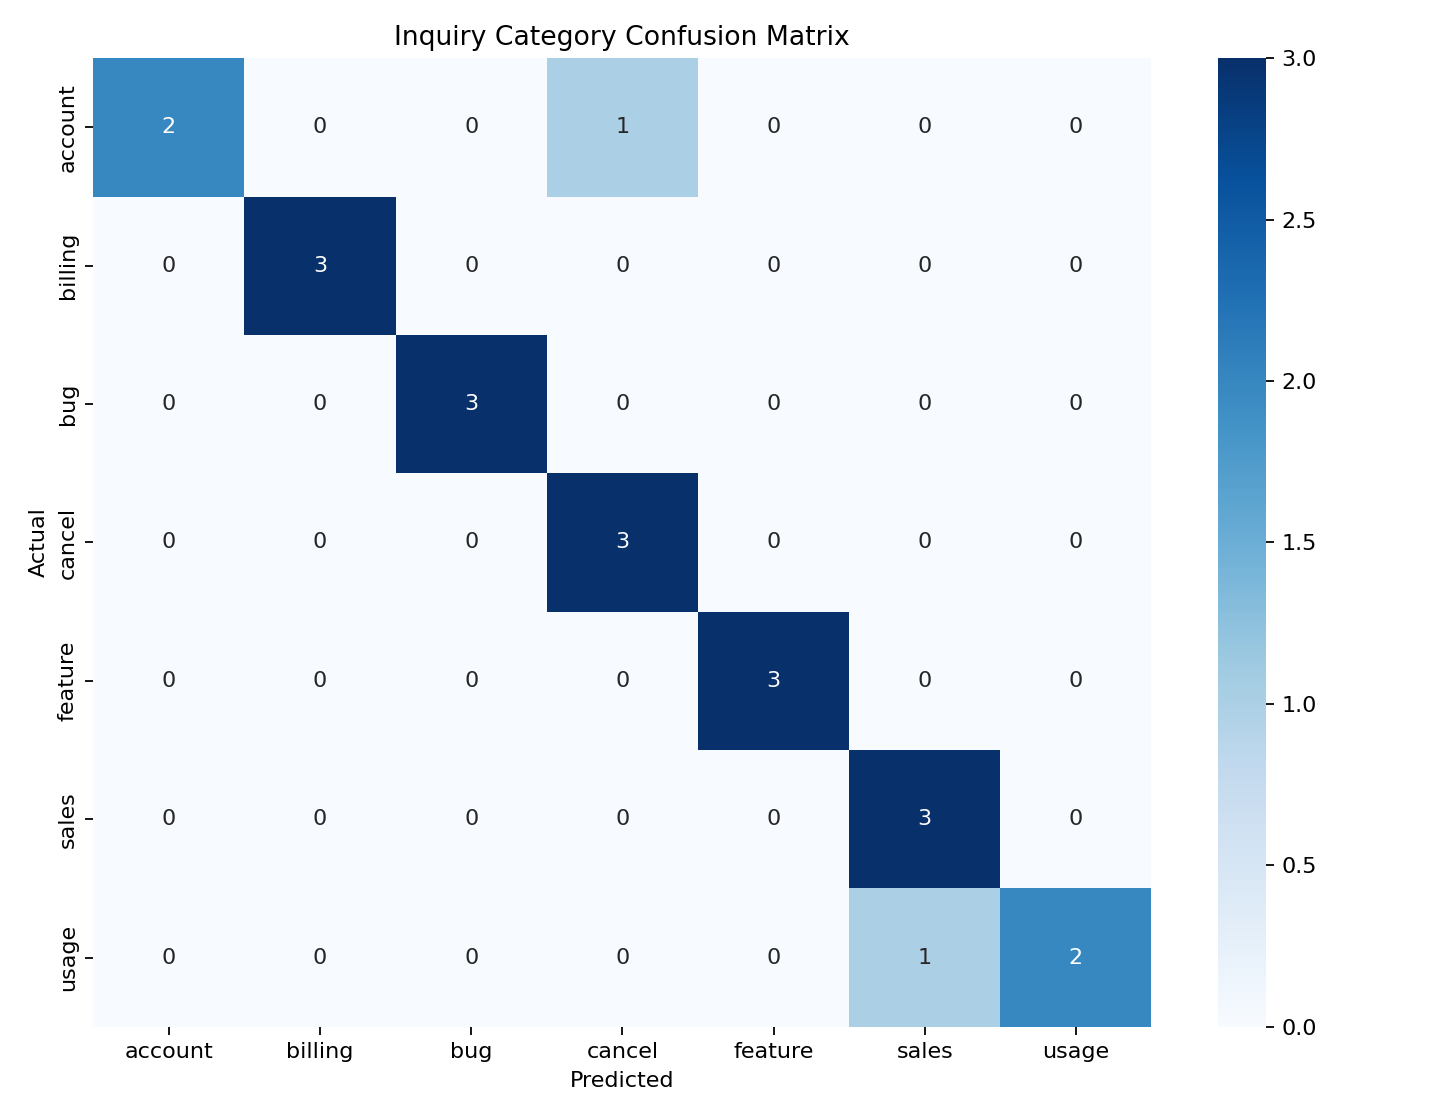
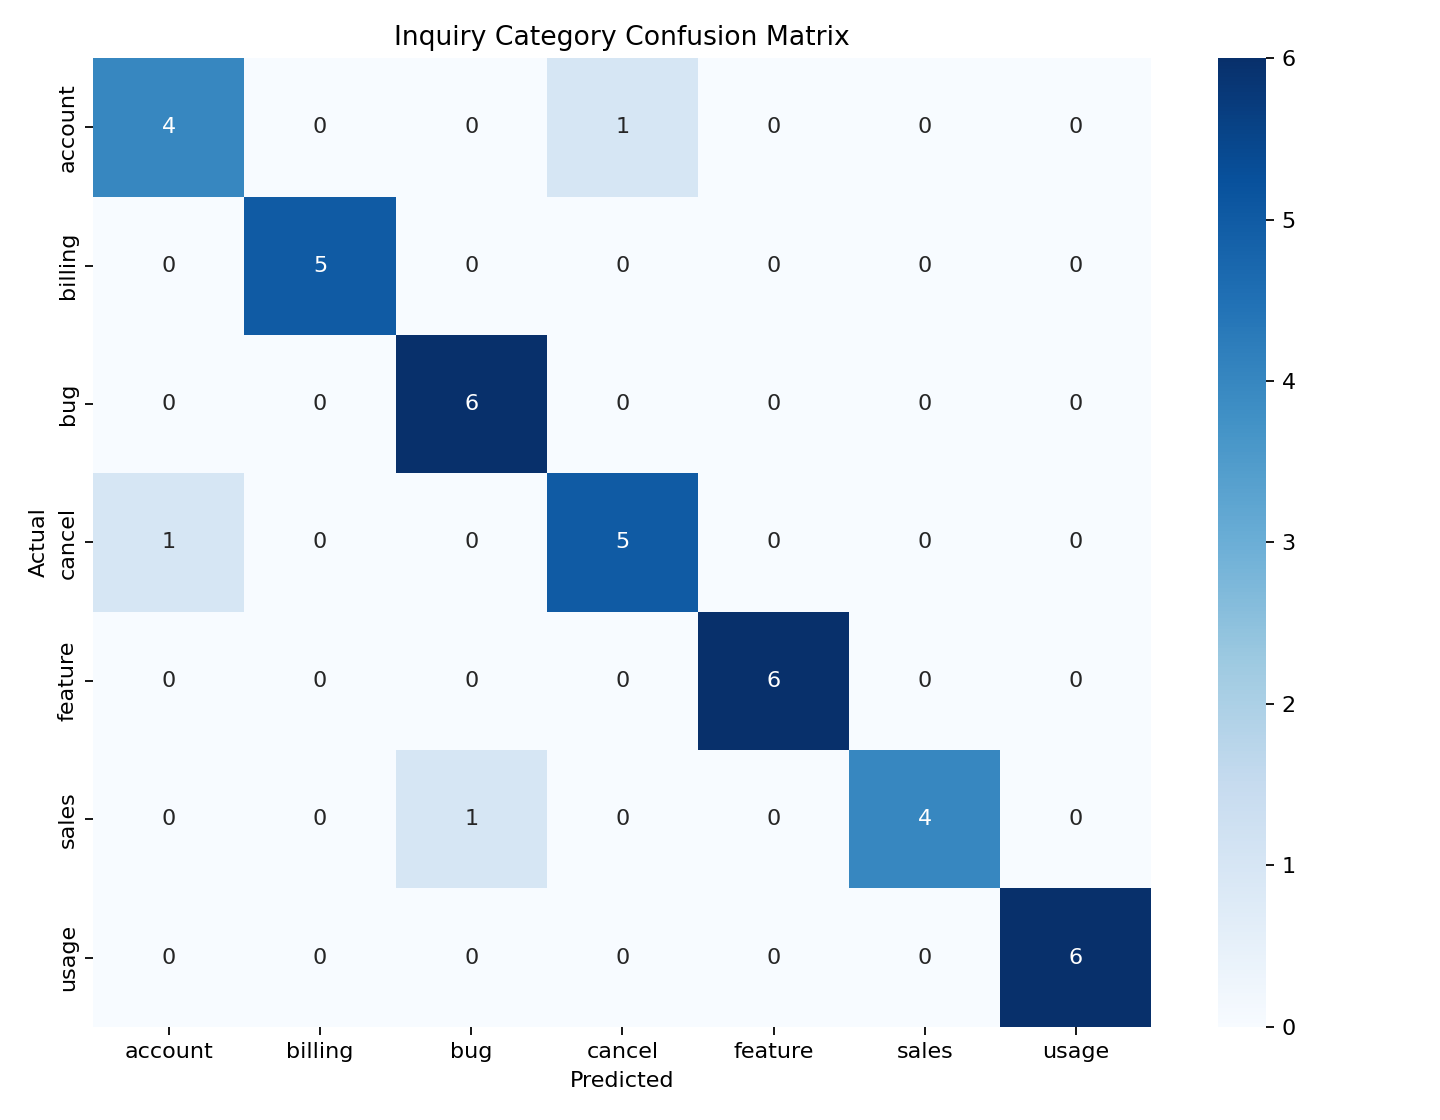
Add English and Chinese inquiry examples

diff --git a/src/model_features.py b/src/model_features.py
@@ -16,6 +16,22 @@ CATEGORY_KEYWORDS = {
         "招待",
         "ユーザー",
         "二段階",
+        "login",
+        "password",
+        "authentication",
+        "account",
+        "email",
+        "invite",
+        "user",
+        "two-factor",
+        "登录",
+        "密码",
+        "认证",
+        "账户",
+        "邮箱",
+        "邀请",
+        "用户",
+        "双重验证",
     ],
     "billing": [
         "請求",
@@ -27,6 +43,22 @@ CATEGORY_KEYWORDS = {
         "振込",
         "契約",
         "金額",
+        "invoice",
+        "billing",
+        "payment",
+        "credit card",
+        "receipt",
+        "price",
+        "plan",
+        "charge",
+        "发票",
+        "账单",
+        "付款",
+        "信用卡",
+        "收据",
+        "费用",
+        "套餐",
+        "扣款",
     ],
     "bug": [
         "エラー",
@@ -37,6 +69,22 @@ CATEGORY_KEYWORDS = {
         "止まります",
         "真っ白",
         "タイムアウト",
+        "error",
+        "bug",
+        "crash",
+        "failed",
+        "not working",
+        "blank",
+        "timeout",
+        "cannot",
+        "错误",
+        "故障",
+        "崩溃",
+        "失败",
+        "无法",
+        "空白",
+        "超时",
+        "不能",
     ],
     "cancel": [
         "解約",
@@ -47,6 +95,22 @@ CATEGORY_KEYWORDS = {
         "終了",
         "無料プラン",
         "更新前",
+        "cancel",
+        "cancellation",
+        "unsubscribe",
+        "delete account",
+        "terminate",
+        "stop service",
+        "downgrade",
+        "renewal",
+        "取消",
+        "退订",
+        "注销",
+        "删除账户",
+        "终止",
+        "停止服务",
+        "降级",
+        "续费",
     ],
     "feature": [
         "追加",
@@ -57,6 +121,22 @@ CATEGORY_KEYWORDS = {
         "一括",
         "並べ替え",
         "下書き",
+        "feature",
+        "request",
+        "add",
+        "integration",
+        "bulk",
+        "customize",
+        "export",
+        "automation",
+        "功能",
+        "需求",
+        "添加",
+        "集成",
+        "批量",
+        "自定义",
+        "导出",
+        "自动化",
     ],
     "sales": [
         "導入",
@@ -68,6 +148,22 @@ CATEGORY_KEYWORDS = {
         "相談",
         "契約前",
         "他社",
+        "demo",
+        "trial",
+        "quote",
+        "sales",
+        "enterprise",
+        "consult",
+        "before purchase",
+        "case study",
+        "演示",
+        "试用",
+        "报价",
+        "销售",
+        "企业",
+        "咨询",
+        "购买前",
+        "案例",
     ],
     "usage": [
         "方法",
@@ -79,6 +175,22 @@ CATEGORY_KEYWORDS = {
         "確認したい",
         "操作",
         "インポート",
+        "how to",
+        "procedure",
+        "setting",
+        "where",
+        "guide",
+        "use",
+        "import",
+        "permission",
+        "如何",
+        "步骤",
+        "设置",
+        "在哪里",
+        "指南",
+        "使用",
+        "导入",
+        "权限",
     ],
 }
 
@@ -96,10 +208,10 @@ class KeywordFeatureExtractor(BaseEstimator, TransformerMixin):
     def transform(self, X: Iterable[str]) -> sparse.csr_matrix:
         rows: list[list[float]] = []
         for text in X:
-            text_value = str(text)
+            text_value = str(text).lower()
             features = []
             for category in self.categories_:
                 keywords = self.keyword_map[category]
-                features.append(sum(1 for keyword in keywords if keyword in text_value))
+                features.append(sum(1 for keyword in keywords if keyword.lower() in text_value))
             rows.append(features)
         return sparse.csr_matrix(rows, dtype=float)

diff --git a/README.md b/README.md
@@ -1,6 +1,6 @@
-# 問い合わせ文カテゴリ分類AI
+# 多言語問い合わせ文カテゴリ分類AI
 
-日本語の問い合わせ文を、内容に応じてカテゴリ分類する機械学習プロジェクトです。
+日本語・英語・中国語の問い合わせ文を、内容に応じてカテゴリ分類する機械学習プロジェクトです。
 
 ## 目的
 
@@ -31,13 +31,13 @@
 - 問い合わせ文とカテゴリのCSVデータ作成
 - 欠損値・空文字の除去
 - 文字N-gramによるTF-IDF特徴量化
-- ドメインキーワードの出現数を特徴量として追加
+- 日本語・英語・中国語のドメインキーワード出現数を特徴量として追加
 - Logistic Regressionによるカテゴリ分類モデルの学習
 - Accuracy、F1-score、混同行列による評価
 - 学習済みモデルの保存
 - CLIから新しい問い合わせ文を分類する予測機能
 
-日本語の単語分割には形態素解析器が必要になる場合がありますが、このプロジェクトでは環境構築を軽くするため、文字単位のN-gramを使っています。さらに「請求」「解約」「ログイン」「導入」など、カテゴリ判定に効きやすいドメインキーワードの出現数も特徴量化し、少量データでも分類しやすいようにしました。
+単語分割には言語ごとの前処理が必要になる場合がありますが、このプロジェクトでは環境構築を軽くするため、文字単位のN-gramを使っています。さらに「請求」「invoice」「发票」など、カテゴリ判定に効きやすい日本語・英語・中国語のドメインキーワードの出現数も特徴量化し、少量データでも分類しやすいようにしました。
 
 ## セットアップ
 
@@ -60,18 +60,25 @@ python src/train.py
 - `reports/classification_report.csv`
 - `reports/confusion_matrix.png`
 
-現在のサンプルデータでは、固定の分割条件で以下の評価結果になりました。
+現在の多言語サンプルデータでは、固定の分割条件で以下の評価結果になりました。
 
 | 指標 | 値 |
 | --- | ---: |
-| Accuracy | 0.905 |
-| Macro F1 | 0.902 |
-| Weighted F1 | 0.902 |
+| Accuracy | 0.923 |
+| Macro F1 | 0.921 |
+| Weighted F1 | 0.923 |
 
 ## 予測デモ
 
 ```bash
 python src/predict.py "請求書の宛名を変更したいです"
+```
+
+英語・中国語の問い合わせ文も分類できます。
+
+```bash
+python src/predict.py "I cannot log in after resetting my password"
+python src/predict.py "请提供10个用户的报价"
 ```
 
 出力例:
@@ -80,16 +87,16 @@ python src/predict.py "請求書の宛名を変更したいです"
 入力: 請求書の宛名を変更したいです
 予測カテゴリ: 請求・支払い (billing)
 確信度:
-- 請求・支払い: 0.762
-- 不具合: 0.090
-- 導入相談: 0.060
+- 請求・支払い: 0.800
+- 不具合: 0.087
+- 導入相談: 0.039
 ```
 
 ## 工夫した点
 
 - 少量データでも動作を確認しやすいよう、シンプルな教師あり分類タスクとして設計しました。
-- 日本語テキストに対して、追加辞書や形態素解析器なしで動く文字N-gram TF-IDFを採用しました。
-- TF-IDFだけでは分類しづらいカテゴリに対応するため、問い合わせ業務で重要になりやすいキーワード特徴量を追加しました。
+- 日本語・英語・中国語テキストに対して、追加辞書や形態素解析器なしで動く文字N-gram TF-IDFを採用しました。
+- TF-IDFだけでは分類しづらいカテゴリに対応するため、問い合わせ業務で重要になりやすい多言語キーワード特徴量を追加しました。
 - 単に分類するだけでなく、評価指標と混同行列を出力し、どのカテゴリを誤分類しやすいか確認できるようにしました。
 - 予測時に上位カテゴリの確信度も表示し、運用時に人が確認しやすい形にしました。
 
@@ -99,3 +106,4 @@ python src/predict.py "請求書の宛名を変更したいです"
 - LinearSVC、Random Forest、LightGBMなどとの比較
 - Streamlitでブラウザから試せるデモ画面を追加
 - 誤分類データを分析して学習データやカテゴリ定義を改善
+- 多言語Embeddingモデルを使い、未知の表現や学習データが少ない言語への対応力を高める
